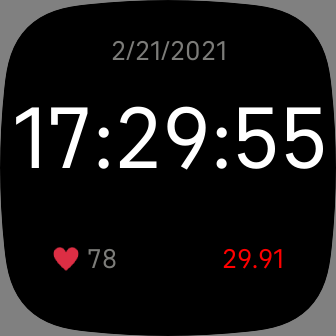
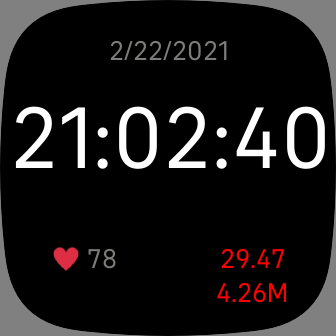
added volume element and parsing

diff --git a/app/services/TickerService.js b/app/services/TickerService.js
@@ -1,16 +1,17 @@
-import { isMarketOpen } from "../common/utils.js"
+import { isMarketOpen, volumeParse, priceParse} from "../common/utils.js"
 
 export default class TickerService {
-  constructor(displayLabel) {
+  constructor(priceLabel, volumeLabel) {
     this.cache = null;
-    this.displayLabel = displayLabel;
-    this.displayLabel.text = "Loading...";
+    this.priceLabel = priceLabel;
+    this.volumeLabel = volumeLabel;
+    this.priceLabel.text = "Loading...";
     this.setStockPriceDisplay = this.setStockPriceDisplay.bind(this);
     this.parse = this.parse.bind(this);
   }
 
   setStockPriceDisplay(callback) {
-    this.displayLabel.text = "Loading...";
+    this.priceLabel.text = "Loading...";
     if (!isMarketOpen() && this.cache) {
       this.parse(this.cache);
     } else {
@@ -20,8 +21,10 @@ export default class TickerService {
   
   parse(data) {
     if (data) {
-      this.displayLabel.text = data.price;
-      this.displayLabel.style.fill = data.color;
+      this.priceLabel.text = priceParse(data.price);
+      this.priceLabel.style.fill = data.color;
+      this.volumeLabel.text = volumeParse(data.volume);
+      this.volumeLabel.style.fill = data.color;
       this.cache = data;
     }
   };

diff --git a/app/index.js b/app/index.js
@@ -9,7 +9,9 @@ const timeLabel = document.getElementById("timeLabel");
 const dateLabel = document.getElementById("dateLabel");
 const heartRateLabel = document.getElementById("heartRateLabel");
 const stockPriceLabel = document.getElementById("stockPriceLabel");
-const ts = new TickerService(stockPriceLabel);
+const stockVolumeLabel = document.getElementById("stockVolumeLabel");
+
+const ts = new TickerService(stockPriceLabel, stockVolumeLabel);
 
 clock.granularity = "seconds";
 setHeartRateDisplay(heartRateLabel);

diff --git a/app/common/utils.js b/app/common/utils.js
@@ -5,6 +5,14 @@ export function zeroPad(i) {
   return i;
 }
 
+export function volumeParse(val) {
+  return (val / 1000000).toFixed(2) + "M"
+}
+
+export function priceParse(val) {
+  return val.toFixed(2)
+}
+
 export function isMarketOpen() {
   let today = new Date();
   let hours = today.getHours();

diff --git a/companion/index.js b/companion/index.js
@@ -18,7 +18,7 @@ function fetchStockPrice() {
 
 function parseResponse(data) {
   let currentPrice = data["latestPrice"];
-  let open = data["open"];
+  let open = data["previousClose"];
   let volume = data["latestVolume"];
   return {
     price: currentPrice,

diff --git a/resources/styles.css b/resources/styles.css
@@ -41,3 +41,13 @@
   y: 80%;
   fill: #7c7c79;
 }
+
+#stockVolumeLabel {
+  font-size: 28;
+  font-family: System-Regular;
+  text-length: 50;
+  text-anchor: middle;
+  x: 75%;
+  y: 90%;
+  fill: #7c7c79;
+}

diff --git a/companion/properties.js b/companion/properties.js
@@ -1,3 +1,3 @@
 export const props = {
-  url: 'https://cloud-sse.iexapis.com/stable/stock/PSTH/quote?token=
+  url: 'https://cloud-sse.iexapis.com/stable/stock/PSTH/quote?token='
 }
